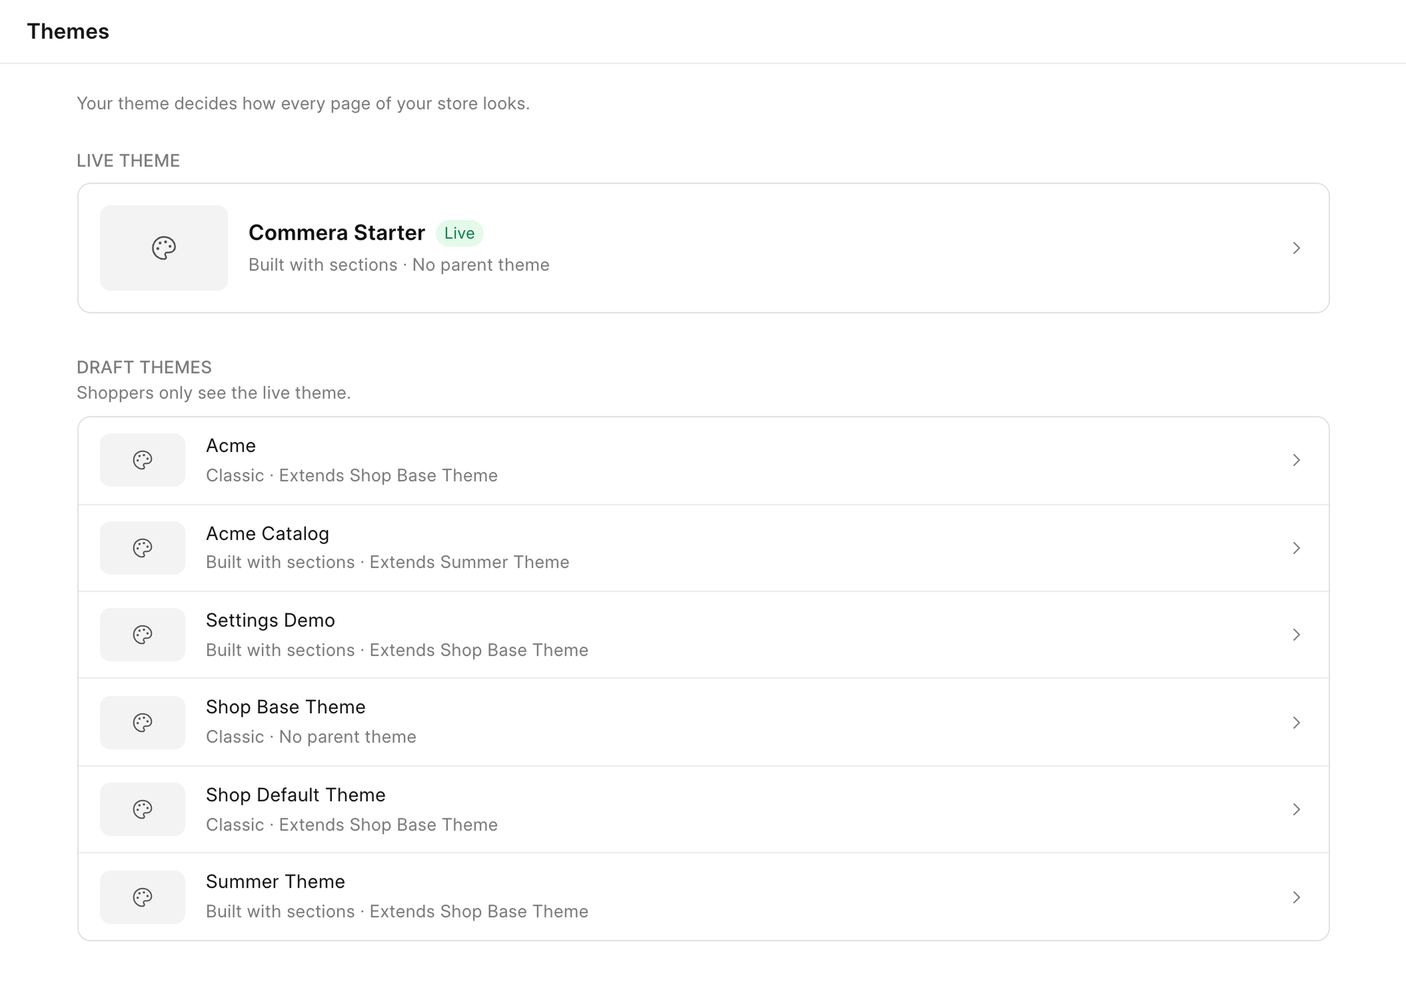
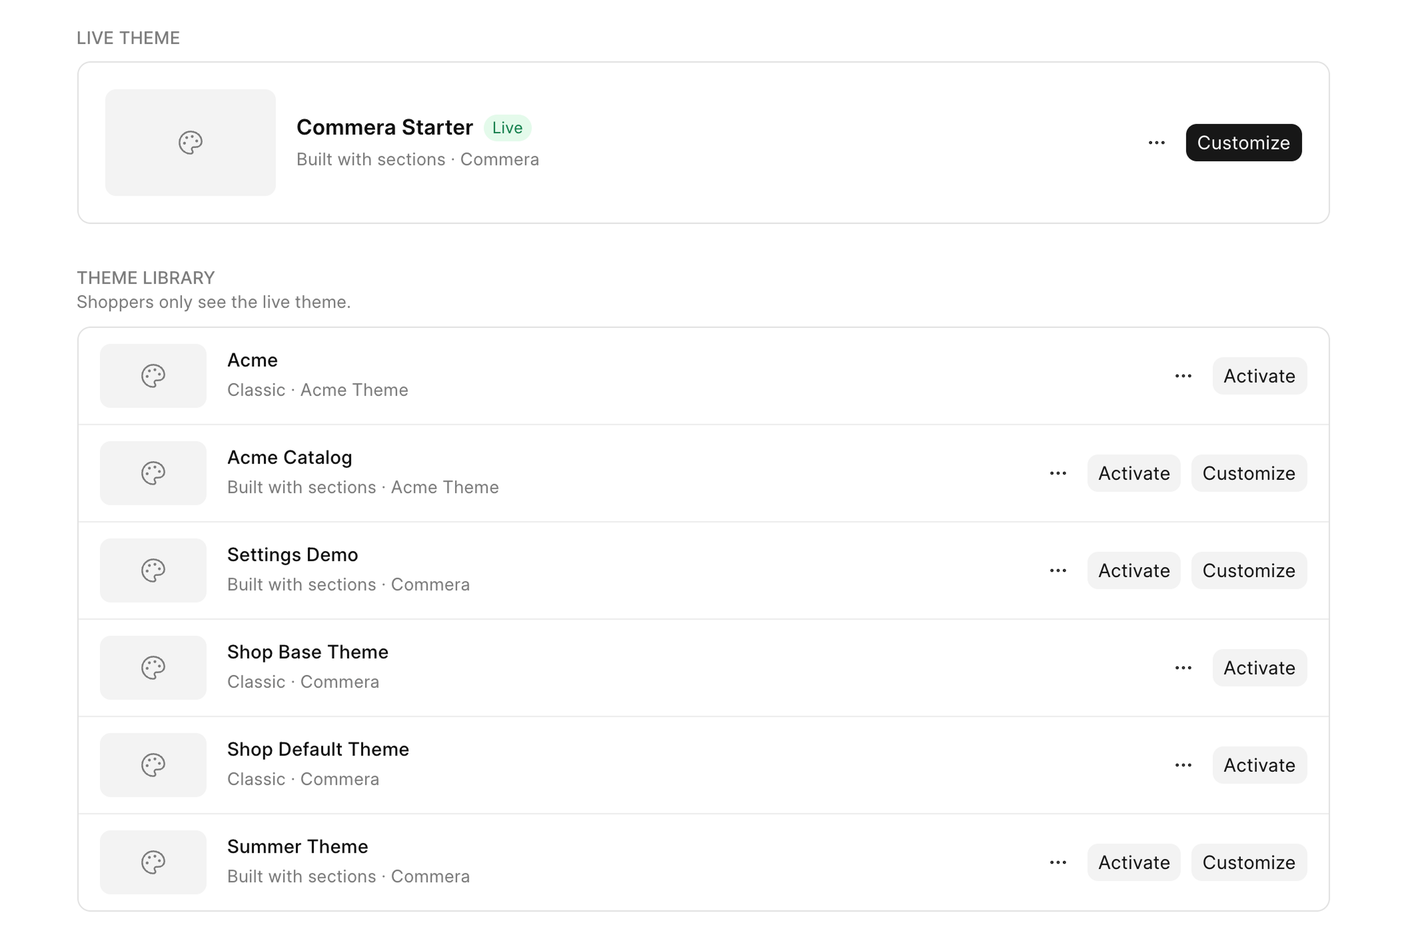
feat(themes): customize and activate themes from the list

diff --git a/dashboard/src/pages/storefront/Themes.vue b/dashboard/src/pages/storefront/Themes.vue
@@ -1,34 +1,105 @@
 <script setup>
-import { computed, onMounted } from 'vue'
-import { Badge, Skeleton } from 'frappe-ui'
-import AppPageHeader from '../../components/AppPageHeader.vue'
+import { computed, onMounted, ref } from 'vue'
+import { createReusableTemplate } from '@vueuse/core'
+import { Badge, Button, Dropdown, Skeleton, dialog, toast } from 'frappe-ui'
 import PageBody from '../../components/PageBody.vue'
 import EmptyState from '../../components/EmptyState.vue'
-import { themeKind, themeNote, useTheme } from '../../data/theme'
+import { themeKind, useTheme } from '../../data/theme'
 import { errorMessage } from '../../data/errors'
 
-const { themes, loadError, loading, load } = useTheme()
+const { themes, loadError, loading, load, activate } = useTheme()
 
 onMounted(load)
 
-const liveTheme = computed(() => themes.value.find((theme) => theme.live) ?? null)
-const draftThemes = computed(() => themes.value.filter((theme) => !theme.live))
+const [DefineThemeRow, ThemeRow] = createReusableTemplate()
 
-function detailRoute(theme) {
-  return { name: 'StorefrontThemeDetail', params: { theme: theme.name } }
+const activatingName = ref(null)
+
+const liveTheme = computed(() => themes.value.find((theme) => theme.live) ?? null)
+const libraryThemes = computed(() => themes.value.filter((theme) => !theme.live))
+
+function openInNewTab(url) {
+  window.open(url, '_blank', 'noopener')
+}
+
+function menuOptions(theme) {
+  return [
+    theme.settings_desk_url && {
+      label: 'Open settings in Desk',
+      icon: 'lucide-sliders-horizontal',
+      onClick: () => openInNewTab(theme.settings_desk_url),
+    },
+    { label: 'Open theme in Desk', icon: 'lucide-external-link', onClick: () => openInNewTab(theme.desk_url) },
+  ].filter(Boolean)
+}
+
+function confirmActivate(theme) {
+  const previous = liveTheme.value?.theme_name
+  dialog.confirm({
+    title: `Activate ${theme.theme_name}?`,
+    message: previous
+      ? `Shoppers see ${theme.theme_name} straight away. ${previous} moves to the theme library and keeps all its changes.`
+      : `Shoppers see ${theme.theme_name} straight away.`,
+    confirmLabel: 'Activate',
+    onConfirm: async () => {
+      activatingName.value = theme.name
+      try {
+        if (await activate(theme.name)) toast.success(`${theme.theme_name} is now the live theme`)
+      } finally {
+        activatingName.value = null
+      }
+    },
+  })
 }
 </script>
 
 <template>
-  <AppPageHeader title="Themes" />
+  <DefineThemeRow v-slot="{ theme, featured }">
+    <div class="flex flex-wrap items-center gap-x-4 gap-y-3">
+      <div class="flex min-w-0 flex-1 basis-56 items-center gap-4">
+        <span
+          class="grid shrink-0 place-items-center rounded-4 bg-surface-gray-2 text-ink-gray-5"
+          :class="featured ? 'h-20 w-32' : 'h-12 w-20'"
+        >
+          <span class="lucide-palette size-5" aria-hidden="true" />
+        </span>
+        <div class="min-w-0 flex-1">
+          <div class="flex items-center gap-2">
+            <span class="truncate text-ink-gray-9" :class="featured ? 'text-lg-semibold' : 'text-base font-medium'">
+              {{ theme.theme_name }}
+            </span>
+            <Badge v-if="theme.live" label="Live" theme="green" variant="subtle" />
+          </div>
+          <p class="mt-1 text-sm text-ink-gray-5">{{ themeKind(theme) }} · {{ theme.source }}</p>
+        </div>
+      </div>
+      <div class="ml-auto flex shrink-0 items-center gap-2">
+        <Dropdown :options="menuOptions(theme)" placement="right">
+          <Button variant="ghost" icon="lucide-ellipsis" :label="`More actions for ${theme.theme_name}`" />
+        </Dropdown>
+        <Button
+          v-if="!theme.live"
+          label="Activate"
+          :loading="activatingName === theme.name"
+          :disabled="Boolean(activatingName)"
+          @click="confirmActivate(theme)"
+        />
+        <Button
+          v-if="theme.theme_type === 'Sections'"
+          label="Customize"
+          :variant="featured ? 'solid' : 'subtle'"
+          theme="gray"
+          :route="{ name: 'StorefrontThemeEditor', params: { theme: theme.name } }"
+        />
+      </div>
+    </div>
+  </DefineThemeRow>
 
   <PageBody width="wide">
-    <p class="text-p-sm text-ink-gray-5">Your theme decides how every page of your store looks.</p>
-
-    <div v-if="loading && !themes.length" class="mt-6" aria-hidden="true">
+    <div v-if="loading && !themes.length" aria-hidden="true">
       <Skeleton class="h-3.5 w-24 rounded-4" />
-      <div class="mt-2 flex items-center gap-4 rounded-5 border border-outline-gray-2 p-4">
-        <Skeleton class="h-16 w-24 shrink-0 rounded-4" />
+      <div class="mt-2 flex items-center gap-4 rounded-5 border border-outline-gray-2 p-5">
+        <Skeleton class="h-20 w-32 shrink-0 rounded-4" />
         <div class="min-w-0 flex-1">
           <Skeleton class="h-4 w-32 rounded-4" />
           <Skeleton class="mt-2 h-3.5 w-56 max-w-full rounded-4" />
@@ -51,51 +122,20 @@ function detailRoute(theme) {
     />
 
     <template v-else>
-      <section v-if="liveTheme" class="mt-6">
+      <section v-if="liveTheme" data-live-theme>
         <h2 class="text-sm font-medium uppercase tracking-wide text-ink-gray-5">Live theme</h2>
-        <RouterLink
-          :to="detailRoute(liveTheme)"
-          class="mt-2 flex items-center gap-4 rounded-5 border border-outline-gray-2 p-4 hover:bg-surface-gray-1"
-          data-live-theme
-        >
-          <span class="grid h-16 w-24 shrink-0 place-items-center rounded-4 bg-surface-gray-2 text-ink-gray-6">
-            <span class="lucide-palette size-5" aria-hidden="true" />
-          </span>
-          <span class="min-w-0 flex-1">
-            <span class="flex items-center gap-2">
-              <span class="truncate text-lg-semibold text-ink-gray-9">{{ liveTheme.theme_name }}</span>
-              <Badge label="Live" theme="green" variant="subtle" />
-            </span>
-            <span class="mt-1 block text-sm text-ink-gray-5 sm:truncate">
-              {{ themeKind(liveTheme) }} · {{ themeNote(liveTheme) }}
-            </span>
-          </span>
-          <span class="lucide-chevron-right size-4 shrink-0 text-ink-gray-5" aria-hidden="true" />
-        </RouterLink>
+        <div class="mt-2 rounded-5 border border-outline-gray-2 p-5">
+          <ThemeRow :theme="liveTheme" :featured="true" />
+        </div>
       </section>
 
-      <section v-if="draftThemes.length" class="mt-8">
-        <h2 class="text-sm font-medium uppercase tracking-wide text-ink-gray-5">Draft themes</h2>
+      <section v-if="libraryThemes.length" class="mt-8">
+        <h2 class="text-sm font-medium uppercase tracking-wide text-ink-gray-5">Theme library</h2>
         <p class="text-p-sm text-ink-gray-5">Shoppers only see the live theme.</p>
         <div class="mt-2 divide-y divide-outline-gray-1 rounded-5 border border-outline-gray-2">
-          <RouterLink
-            v-for="theme in draftThemes"
-            :key="theme.name"
-            :to="detailRoute(theme)"
-            class="flex items-center gap-4 px-4 py-3 first:rounded-t-5 last:rounded-b-5 hover:bg-surface-gray-1"
-            :data-draft-theme="theme.name"
-          >
-            <span class="grid h-10 w-16 shrink-0 place-items-center rounded-4 bg-surface-gray-2 text-ink-gray-6">
-              <span class="lucide-palette size-4" aria-hidden="true" />
-            </span>
-            <span class="min-w-0 flex-1">
-              <span class="block truncate text-base text-ink-gray-8">{{ theme.theme_name }}</span>
-              <span class="mt-1 block text-sm text-ink-gray-5 sm:truncate">
-                {{ themeKind(theme) }} · {{ themeNote(theme) }}
-              </span>
-            </span>
-            <span class="lucide-chevron-right size-4 shrink-0 text-ink-gray-5" aria-hidden="true" />
-          </RouterLink>
+          <div v-for="theme in libraryThemes" :key="theme.name" class="px-4 py-3" :data-library-theme="theme.name">
+            <ThemeRow :theme="theme" />
+          </div>
         </div>
       </section>
     </template>

diff --git a/dashboard/src/router.js b/dashboard/src/router.js
@@ -33,11 +33,6 @@ const routes = [
   { path: '/analytics/storefront', name: 'StorefrontReport', component: () => import('./pages/analytics/Storefront.vue') },
   { path: '/storefront/theme', name: 'StorefrontTheme', component: () => import('./pages/storefront/Themes.vue') },
   {
-    path: '/storefront/theme/:theme',
-    name: 'StorefrontThemeDetail',
-    component: () => import('./pages/storefront/ThemeDetail.vue'),
-  },
-  {
     path: '/storefront/theme/:theme/editor',
     name: 'StorefrontThemeEditor',
     component: () => import('./pages/storefront/ThemeLayoutEditor.vue'),

diff --git a/dashboard/src/data/theme.js b/dashboard/src/data/theme.js
@@ -26,11 +26,6 @@ export function themeKind(theme) {
   return theme.theme_type === 'Sections' ? 'Built with sections' : 'Classic'
 }
 
-export function themeNote(theme) {
-  if (theme.parent_theme) return `Extends ${theme.parent_theme}`
-  return 'No parent theme'
-}
-
 export function useTheme() {
   return { themes, loadError, loading, load, activate }
 }

diff --git a/dashboard/tests/e2e/smoke.spec.js b/dashboard/tests/e2e/smoke.spec.js
@@ -20,7 +20,7 @@ const ROUTES = [
   ['/analytics/revenue', 'Revenue'],
   ['/analytics/inventory', 'Inventory'],
   ['/analytics/storefront', 'Storefront'],
-  ['/storefront/theme', 'Themes'],
+  ['/storefront/theme', 'Shoppers only see the live theme'],
   ['/storefront/navigation', 'Navigation'],
   ['/storefront/pages', 'Pages'],
 ]

diff --git a/dashboard/src/pages/storefront/ThemeLayoutEditor.vue b/dashboard/src/pages/storefront/ThemeLayoutEditor.vue
@@ -84,7 +84,7 @@ async function toggleThemeSettings() {
 
 const breadcrumbs = computed(() => [
   { label: 'Themes', route: { name: 'StorefrontTheme' } },
-  { label: state.theme, route: { name: 'StorefrontThemeDetail', params: { theme: state.theme } } },
+  { label: state.theme },
 ])
 
 async function toggleMaximise() {

diff --git a/commera/api/admin/theme.py b/commera/api/admin/theme.py
@@ -21,15 +21,32 @@ def build_themes(active_theme):
 	"""Every installed theme, live one first, with what each inherits from."""
 	themes = frappe.get_all(
 		"Shop Theme",
-		fields=["name", "theme_name", "parent_theme", "is_standard", "theme_settings", "theme_type"],
+		fields=[
+			"name",
+			"theme_name",
+			"parent_theme",
+			"is_standard",
+			"theme_settings",
+			"theme_type",
+			"module.app_name as app",
+		],
 		order_by="theme_name asc",
 	)
 
 	for theme in themes:
 		theme.live = theme.name == active_theme
+		theme.source = get_theme_source(theme)
+		theme.desk_url = get_url_to_form("Shop Theme", theme.name)
 		theme.settings_desk_url = get_url_to_form(theme.theme_settings) if theme.theme_settings else None
 
 	return sorted(themes, key=lambda theme: not theme.live)
+
+
+def get_theme_source(theme):
+	if not theme.is_standard or not theme.app:
+		return frappe._("Made on this site")
+
+	return (frappe.get_hooks("app_title", app_name=theme.app) or [theme.app])[0]
 
 
 def build_theme_settings(active_theme):
